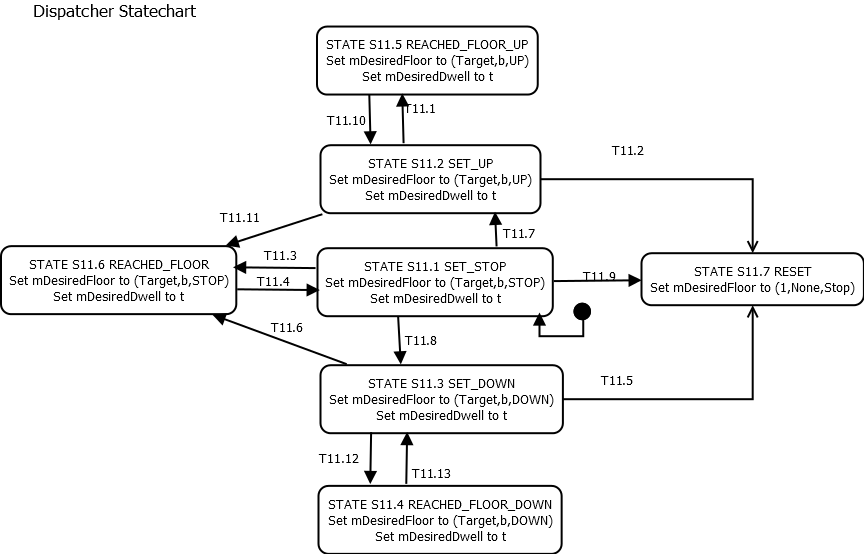
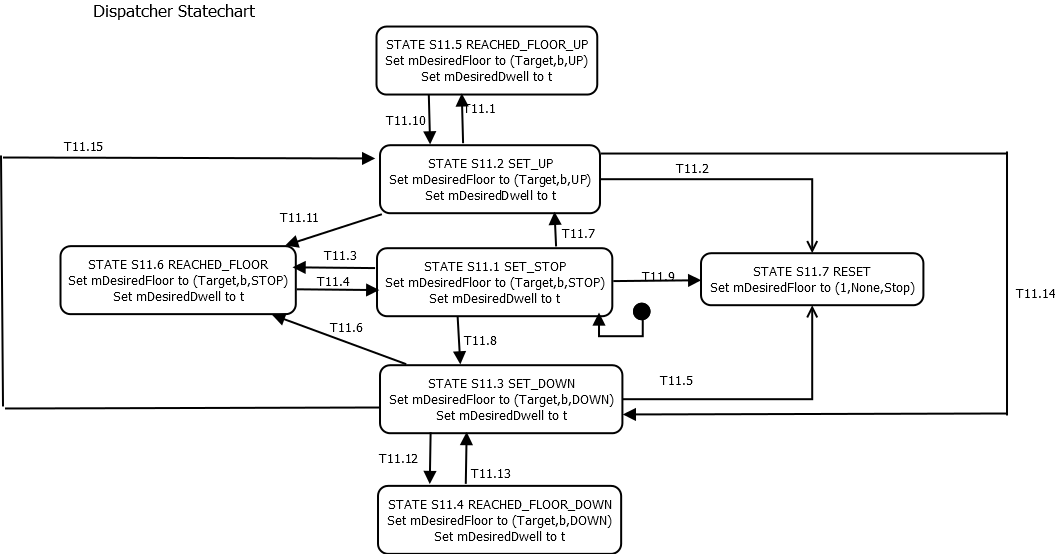
modify statechart of dispacher

diff --git a/portfolio_template/reqs/requirements2.html b/portfolio_template/reqs/requirements2.html
@@ -70,6 +70,7 @@
 
 
 
+
     Sally Stevenson (ststeven)<br>
     &nbsp;&nbsp;&nbsp; &nbsp;&nbsp;&nbsp; &nbsp;&nbsp;&nbsp;
     &nbsp;&nbsp;&nbsp;&nbsp;&nbsp; Sri Harsha Koppaka (skoppaka)<br>
@@ -1106,8 +1107,8 @@
           Statechart" src="doorcontrol_state_diagram.png" border="0"></a><br>
       <br clear="left">
     </p>
-    <table style="text-align: left;" height="185" border="1"
-      cellpadding="2" cellspacing="2" width="526">
+    <table style="text-align: left;" border="1" cellpadding="2"
+      cellspacing="2" height="185" width="526">
       <tbody>
         <tr>
           <td style="vertical-align: top; font-weight: bold;
@@ -2076,39 +2077,36 @@
     <h3> TIME-TRIGGERED BEHAVIORS: </h3>
     6.6&nbsp;&nbsp;&nbsp; If mEmergencyBrake is equal to true then Drive
     shall be set to (Stop,Stop).<br>
-    6.7&nbsp;&nbsp;&nbsp; If mDoorClosed[b, r] is equal to true and
-    mDesiredFloor.f is greater than&nbsp; CurrentFloor, then Drive shall
-    be commanded to (Slow,Up).<br>
-    6.8 &nbsp;&nbsp; If mDoorClosed[b, r] is equal to true and
-    mDesiredFloor.f is less than&nbsp; CurrentFloor, then Drive shall be
-    commanded to (Slow,Down).<br>
-    6.9 &nbsp;&nbsp; If DriveSpeed is equal to Slow and Commit point for
-    mDesiredFloor.f has not been reached, then Drive shall be commanded
-    to (Fast,d).<br>
-    6.10&nbsp; If DriveSpeed is equal to Fast and Commit point for
-    mDesiredFloor.f has been reached, then Drive shall be commanded to
-    (Slow,d).<br>
-    6.11&nbsp; If mLevel[d] is equal to true and mAtFloor[f,b] is equal
+    6.7&nbsp;&nbsp;&nbsp; If mDoorClosed[b, r] is equal to true and d =
+    mDesiredFloor.d is not equal to Stop, then Drive shall be commanded
+    to (Slow,d).<br>
+    6.8&nbsp;&nbsp;&nbsp; If DriveSpeed is equal to Slow and Commit
+    point for mDesiredFloor.f has not been reached, then Drive shall be
+    commanded to (Fast,d) where d = mDesiredFloor.d.<br>
+    6.9&nbsp;&nbsp;&nbsp; If DriveSpeed is equal to Fast and Commit
+    point for mDesiredFloor.f has been reached, then Drive shall be
+    commanded to (Slow,d) where d = mDesiredFloor.d.<br>
+    6.10&nbsp; If mLevel[d] is equal to true and mAtFloor[f,b] is equal
     to True and mDesiredFloor.f is equal to f, then Drive shall be set
     to (Stop,Stop).<br>
-    6.12&nbsp; If any mLevel[d] is equal to false and mAtFloor[f, b] is
+    6.11&nbsp; If any mLevel[d] is equal to false and mAtFloor[f, b] is
     equal to True and mDesiredFloor.f&nbsp; is equal to f, then Drive
     shall be set to (Level,d).<br>
-    6.13&nbsp; If (mCarWeight&gt;= MaxCarCapacity) then Drive shall be
+    6.12&nbsp; If (mCarWeight&gt;= MaxCarCapacity) then Drive shall be
     set to (Stop,Stop).<br>
-    6.14&nbsp; If mHoistwayLimit[d]&nbsp; is equal to true, then Drive
+    6.13&nbsp; If mHoistwayLimit[d]&nbsp; is equal to true, then Drive
     shall be commanded to (Stop,Stop).<br>
-    6.15&nbsp; mDriveSpeed shall always be set to current value of&nbsp;
+    6.14&nbsp; mDriveSpeed shall always be set to current value of&nbsp;
     DriveSpeed.<br>
     <br>
     <h3>TIME-TRIGGERED STATE CHART: </h3>
     &nbsp; <br>
     <a href="drivecontrol_state_diagram.png"><img alt=""
-        src="drivecontrol_state_diagram.png" height="561" border="0"
+        src="drivecontrol_state_diagram.png" border="0" height="561"
         width="748"></a><br>
     <br>
     <br>
-    <table height="424" border="1" cellpadding="2" cellspacing="2"
+    <table border="1" cellpadding="2" cellspacing="2" height="424"
       width="699">
       <tbody>
         <tr>
@@ -2198,8 +2196,8 @@
     <h2>&nbsp;<br>
     </h2>
     <h3>Requirements-to-Statecharts Traceability</h3>
-    <table style="text-align: left;" height="664" border="1"
-      cellpadding="2" cellspacing="2" width="688">
+    <table style="text-align: left;" border="1" cellpadding="2"
+      cellspacing="2" height="664" width="688">
       <tbody>
         <tr>
           <td style="vertical-align: top; background-color: rgb(204,
@@ -2614,8 +2612,8 @@
     <p class="MsoNormal" style=""> </p>
     <h3>Time-Triggered Statechart</h3>
     <p> <a href="lanterncontrol_state_diagram.png"><img alt="Testlight
-          Statechart" src="lanterncontrol_state_diagram.png"
-          height="282" border="0" width="522"></a><br clear="left">
+          Statechart" src="lanterncontrol_state_diagram.png" border="0"
+          height="282" width="522"></a><br clear="left">
     </p>
     <br style="font-weight: bold;">
     <table style="text-align: left;" border="1" cellpadding="2"
@@ -2768,11 +2766,11 @@
     </h3>
     &nbsp; <a href="hallbuttoncontrol_state_diagram.png"><img
         alt="statechart-HallButtonControl"
-        src="hallbuttoncontrol_state_diagram.png" height="275"
-        border="0" width="505"></a><br>
+        src="hallbuttoncontrol_state_diagram.png" border="0"
+        height="275" width="505"></a><br>
     <br>
-    <table style="text-align: left;" height="185" border="1"
-      cellpadding="2" cellspacing="2" width="526">
+    <table style="text-align: left;" border="1" cellpadding="2"
+      cellspacing="2" height="185" width="526">
       <tbody>
         <tr>
           <td style="vertical-align: top; font-weight: bold;
@@ -2961,11 +2959,11 @@
     <h3>Time-Triggered Statechart</h3>
     <p><a href="carbuttoncontrol_state_diagram.png"><img
           alt="CarButtonControl Statechart"
-          src="carbuttoncontrol_state_diagram.png" height="273"
-          border="0" width="426"></a><br clear="left">
+          src="carbuttoncontrol_state_diagram.png" border="0"
+          height="273" width="426"></a><br clear="left">
     </p>
-    <table style="text-align: left;" height="185" border="1"
-      cellpadding="2" cellspacing="2" width="526">
+    <table style="text-align: left;" border="1" cellpadding="2"
+      cellspacing="2" height="185" width="526">
       <tbody>
         <tr>
           <td style="vertical-align: top; font-weight: bold;
@@ -3154,8 +3152,8 @@
     <h3>Time-Triggered Statechart</h3>
     <p> <a href="carpositioncontrol_state_diagram.png"><img
           alt="Testlight Statechart"
-          src="carpositioncontrol_state_diagram.png" height="271"
-          border="0" width="328"></a><br clear="left">
+          src="carpositioncontrol_state_diagram.png" border="0"
+          height="271" width="328"></a><br clear="left">
     </p>
     <br style="font-weight: bold;">
     <table style="text-align: left;" border="1" cellpadding="2"
@@ -3321,7 +3319,7 @@
         src="dispatcher_state_diagram.png"></a><br>
     <br>
     <br>
-    <table height="111" border="1" cellpadding="2" cellspacing="2"
+    <table border="1" cellpadding="2" cellspacing="2" height="111"
       width="720">
       <tbody>
         <tr>
@@ -3332,24 +3330,22 @@
         <tr>
           <td valign="top" width="25%">T11.1<br>
           </td>
-          <td valign="top">Any mDoorClosed[b,r] is true <br>
-            AND CurrentDirection is UP <br>
+          <td valign="top">Target floor is equal to CurrentFloor<br>
             AND any mHallCall[f, b, d] is true OR any mCarCall[f, b] is
-            true, where f &gt; CurrentFloor</td>
+            true</td>
         </tr>
         <tr>
           <td valign="top" width="25%">T11.2<br>
           </td>
-          <td valign="top">all mAtFloor[f, b] are False AND any
-            mDoorClosed [b, r] is False </td>
+          <td valign="top">Any mDoorClosed[b,r] is true and isAtFloor is
+            false<br>
+          </td>
         </tr>
         <tr>
           <td valign="top" width="25%">T11.3<br>
           </td>
-          <td valign="top">Any mDoorClosed[b,r] is true <br>
-            AND CurrentDirection is UP <br>
-            AND any mHallCall[f, b, d] is false OR any mCarCall[f, b] is
-            false, where f &gt; CurrentFloor</td>
+          <td valign="top"><br>
+          </td>
         </tr>
         <tr>
           <td valign="top" width="25%">T11.4</td>
@@ -3421,8 +3417,8 @@
     <h3>Requirements-to-Statecharts Traceability <br>
     </h3>
     <h3>Requirements-to-Statecharts Traceability</h3>
-    <table style="text-align: left;" height="326" border="1"
-      cellpadding="2" cellspacing="2" width="719">
+    <table style="text-align: left;" border="1" cellpadding="2"
+      cellspacing="2" height="326" width="719">
       <tbody>
         <tr>
           <td style="vertical-align: top; background-color: rgb(204,
